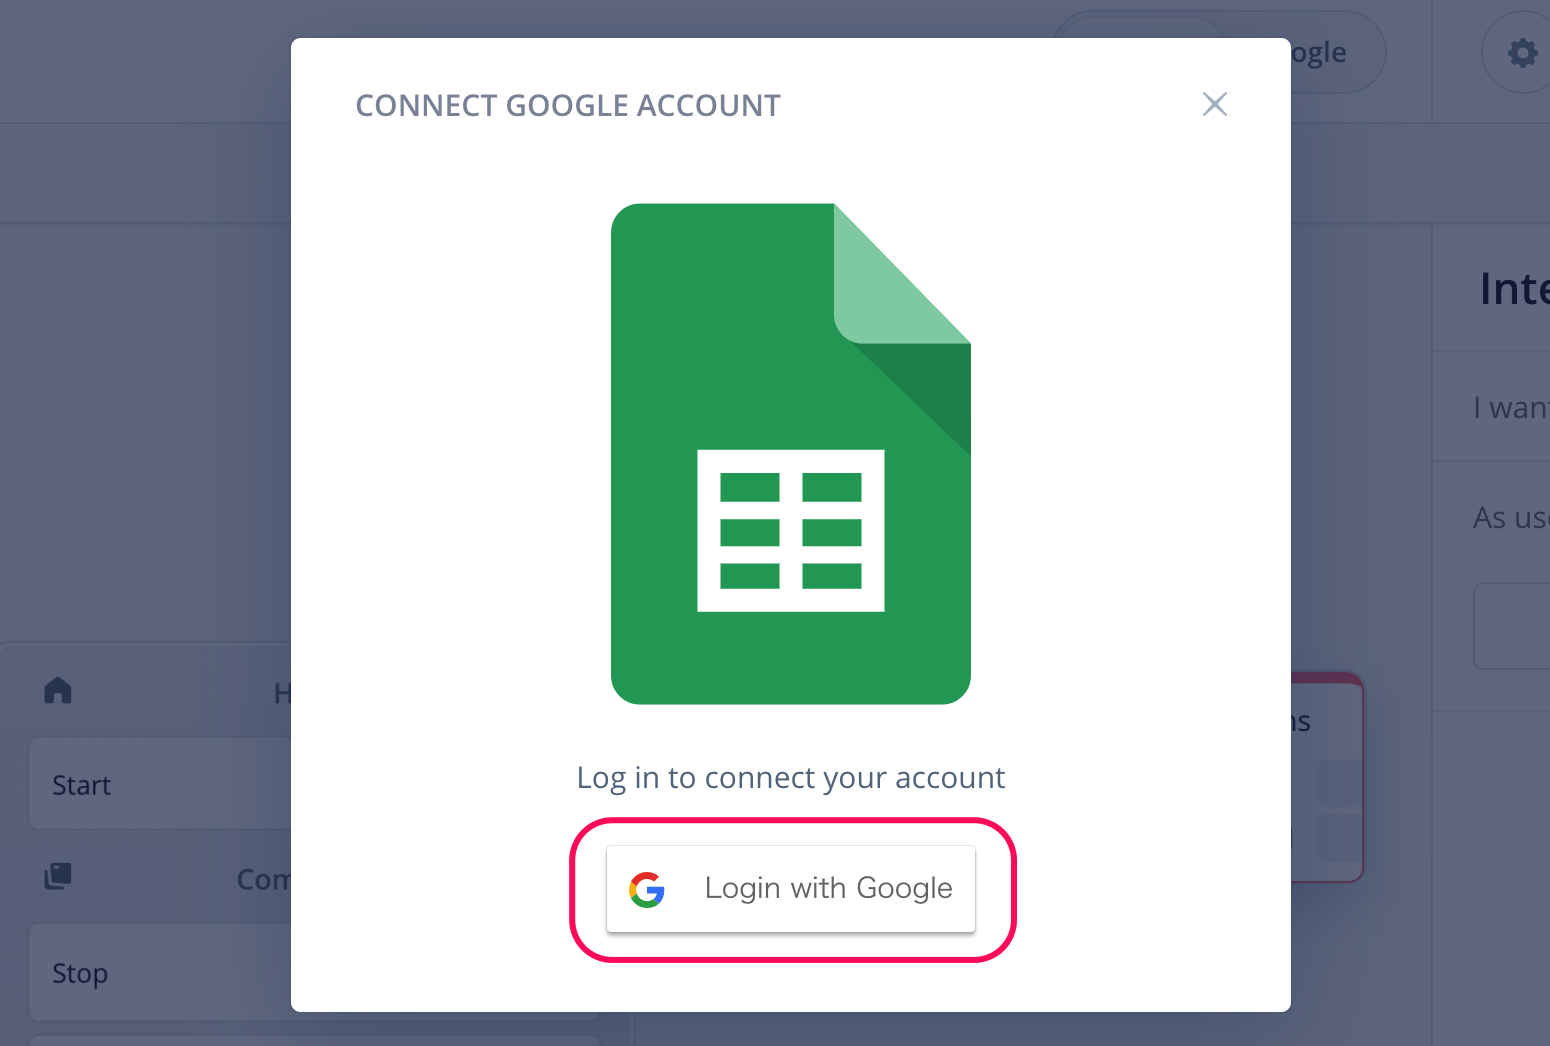
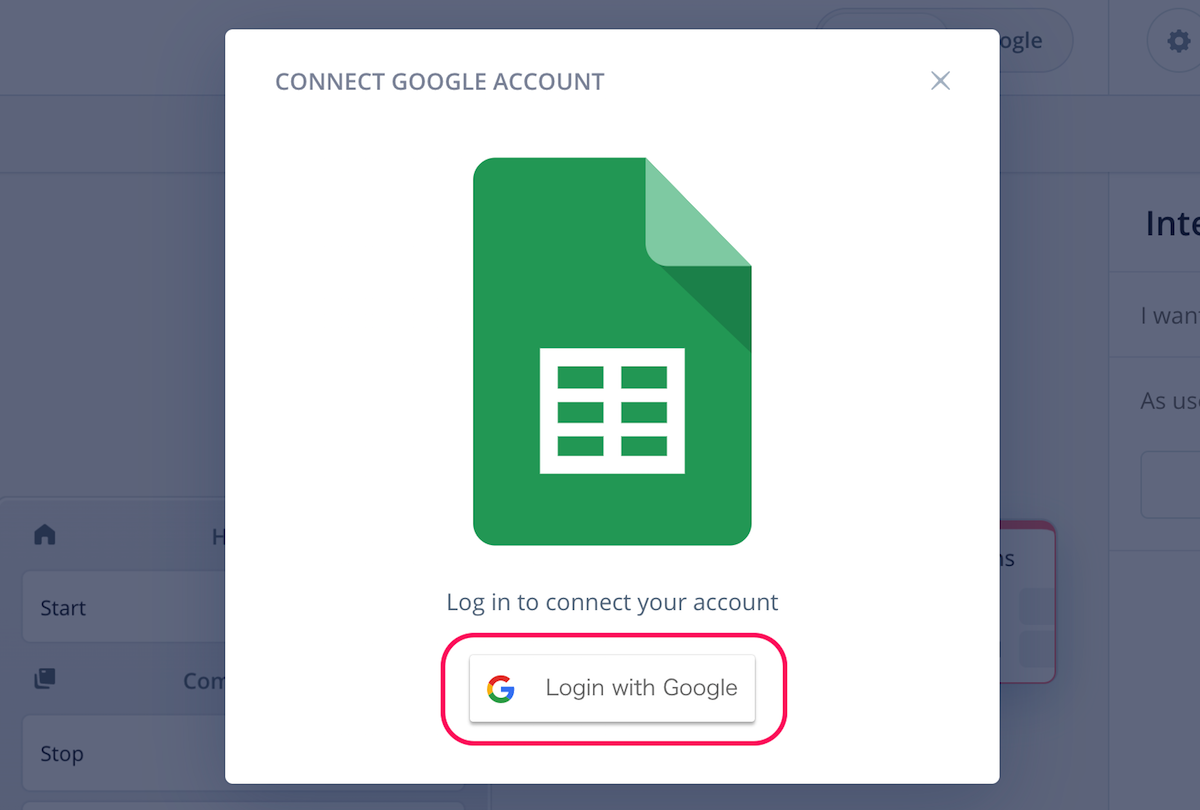
画像調整

diff --git a/review-starter/chapxx-kun432.md b/review-starter/chapxx-kun432.md
@@ -53,17 +53,17 @@ Googleスプレッドシートとの連携は「Integrationブロック」を使
 
 ![](images/chapxx-kun432/s004.png)
 
+//embed[latex]{
+\clearpage
+//}
+
 はじめてアカウント連携を行う場合は以下のようにGooogleへのログインを促す画面が表示されます。「Login with Google」をクリックします。
 
 ![](images/chapxx-kun432/s005.png)
 
-Googleアカウントの選択画面が表示されますので、Googleスプレッドシートを作成したアカウントを選択します。アカウント・パスワードを入力する画面が表示される場合もあります。その場合はお手持ちのGoogleアカウントとパスワードでログインしてください。
+Googleアカウントの選択画面が表示されますので、Googleスプレッドシートを作成したアカウントを選択します。アカウント・パスワードを入力する画面が表示される場合もあります。その場合はお手持ちのGoogleアカウントとパスワードでログインしてください。そしてVoiceflowからGoogleスプレッドシートへのアクセスを「許可」してください。
 
-![](images/chapxx-kun432/s006.png)
-
-VoiceflowからGoogleスプレッドシートへのアクセス許可設定を行う必要があります。「許可」をクリックします。
-
-![](images/chapxx-kun432/s007.png)
+![](images/chapxx-kun432/s006-3.png)
 
 以下のように表示されればGoogleアカウントとの紐付けは完了しています。「Using Sheet」をクリックして次に進みます。
 
